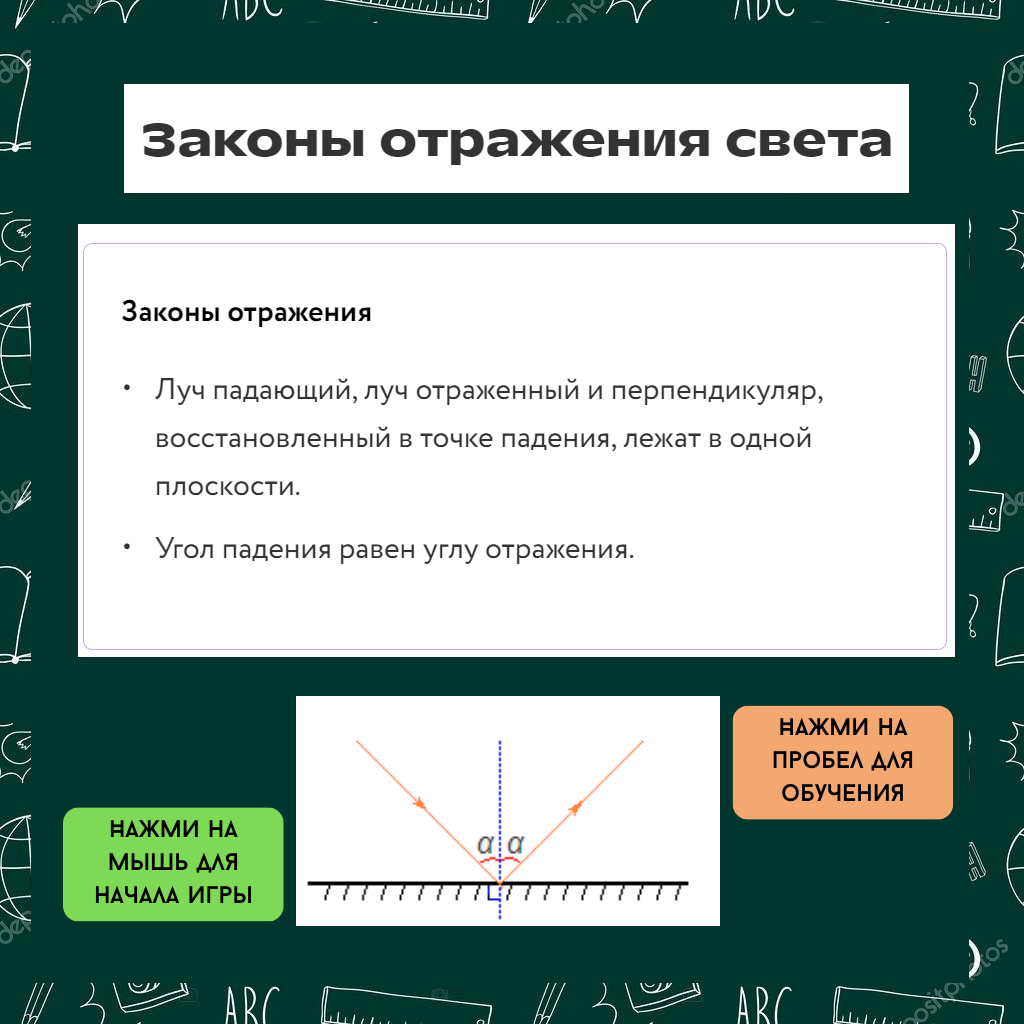
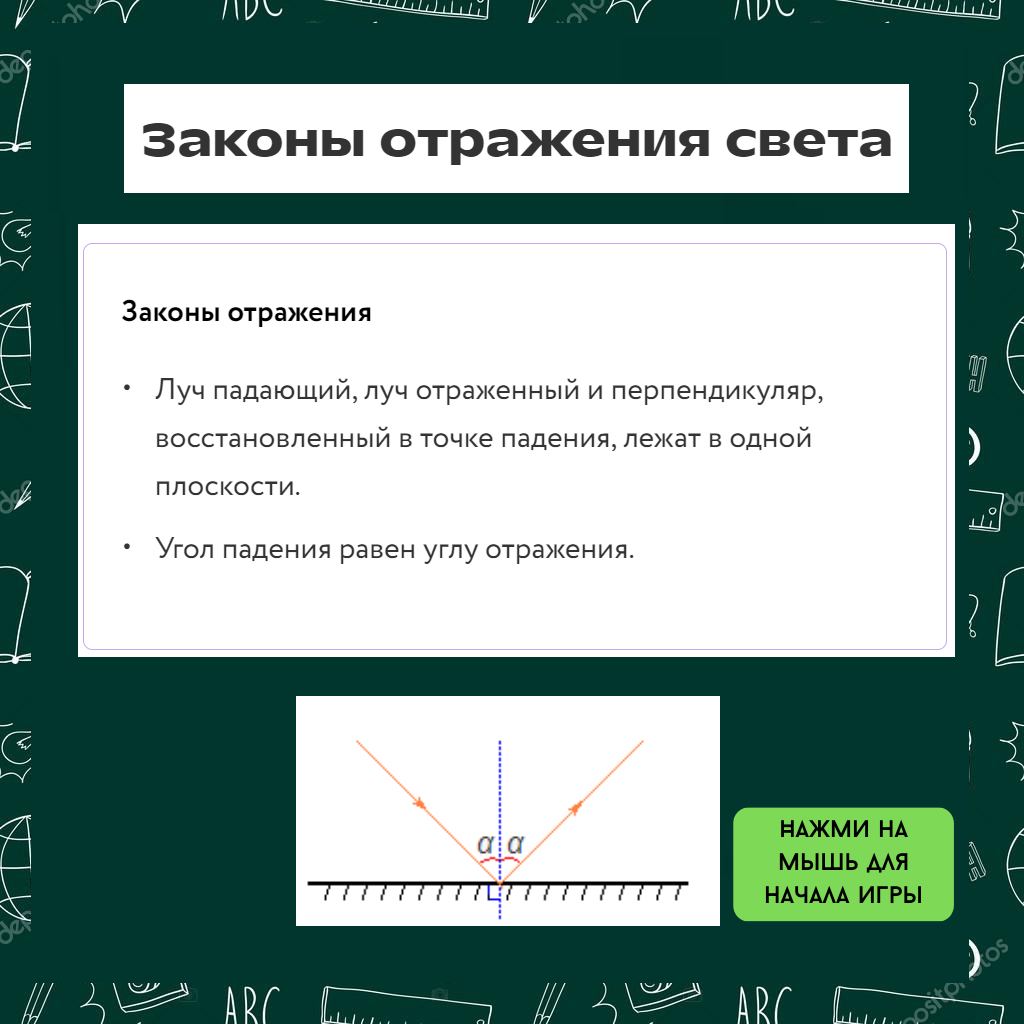
result pictures

Changed region(s): [[0.6875, 0.6875, 0.9375, 0.9062], [0.0625, 0.7812, 0.2812, 0.9062]]

diff --git a/game_3.py b/game_3.py
@@ -16,7 +16,7 @@ screen = pygame.display.set_mode((SCREEN_WIDTH, SCREEN_HEIGHT))
 clock = pygame.time.Clock()
 
 # === Загрузка ресурсов ===
-background_img = pygame.image.load("assets/bck2.png").convert()
+background_img = pygame.image.load("assets/background.png").convert()
 background_img = pygame.transform.scale(background_img, (SCREEN_WIDTH, SCREEN_HEIGHT))
 
 finish_img = pygame.image.load("assets/finish.png").convert()
@@ -36,8 +36,11 @@ num2_img = pygame.transform.scale(num2_img, (SCREEN_WIDTH, SCREEN_HEIGHT))
 upr_img = pygame.image.load("assets/upr.png").convert()
 upr_img = pygame.transform.scale(upr_img, (SCREEN_WIDTH, SCREEN_HEIGHT))
 
+upr2_img = pygame.image.load("assets/upr_2.png").convert()
+upr2_img = pygame.transform.scale(upr2_img, (SCREEN_WIDTH, SCREEN_HEIGHT))
 
-oneStar = pygame.image.load('assets/111.png').convert()
+
+oneStar = pygame.image.load('assets/zv_1.png').convert()
 oneStar = pygame.transform.scale(oneStar, (SCREEN_WIDTH, SCREEN_HEIGHT))
 
 twoStar = pygame.image.load('assets/zv_2.png').convert()
@@ -126,18 +129,18 @@ def result(res, next_slide):
         mouse_pos = pygame.mouse.get_pos()
 
         # --- Кнопка рестарт ---
-        button1_rect = button_img.get_rect(center=(SCREEN_WIDTH // 2, 250))
+        button1_rect = button_img.get_rect(center=(SCREEN_WIDTH // 2, 350))
         hovered1 = button1_rect.collidepoint(mouse_pos)
         y_offset1 = 3 if clicked_button == 'level1' else 0
         screen.blit(button_img, button1_rect.move(0, y_offset1))
-        draw_text(" Заново", font, RED if hovered1 else WHITE, screen, SCREEN_WIDTH // 2, 250 + y_offset1)
+        draw_text(" Заново", font, RED if hovered1 else WHITE, screen, SCREEN_WIDTH // 2, 350 + y_offset1)
 
         # --- Кнопка дальше ---
-        button2_rect = button_img.get_rect(center=(SCREEN_WIDTH // 2, 350))
+        button2_rect = button_img.get_rect(center=(SCREEN_WIDTH // 2, 450))
         hovered2 = button2_rect.collidepoint(mouse_pos)
         y_offset2 = 3 if clicked_button == 'level2' else 0
         screen.blit(button_img, button2_rect.move(0, y_offset2))
-        draw_text(" Дальше", font, RED if hovered2 else WHITE, screen, SCREEN_WIDTH // 2, 350 + y_offset2)
+        draw_text(" Дальше", font, RED if hovered2 else WHITE, screen, SCREEN_WIDTH // 2, 450 + y_offset2)
 
 
         for event in pygame.event.get():
@@ -170,20 +173,25 @@ def result(res, next_slide):
 # === Пример функции запуска 1 уровня ===
 def start_level_one(screen):
     next_slide = 2 #след уровень 2й
-    screen.blit(num1_img, (0, 0))
-    pygame.display.update()
+    cnt = 0
     while True:
         for event in pygame.event.get():   
             if event.type == pygame.QUIT:
                 exit()
 
-            if event.type == pygame.KEYDOWN:
+            if event.type == pygame.MOUSEBUTTONDOWN and cnt == 0:
                 screen.blit(upr_img, (0, 0))
                 pygame.display.update()
+                cnt += 1
+            
+            elif event.type == pygame.MOUSEBUTTONDOWN and cnt == 1:
+                screen.blit(num1_img, (0, 0))
+                pygame.display.update()
+                cnt += 1
 
-            if event.type == pygame.MOUSEBUTTONDOWN:
+            elif event.type == pygame.MOUSEBUTTONDOWN and cnt == 2:
                 import level1
-                rez = 1#level1.start(screen)
+                rez = level1.start(screen)
                 result(rez, next_slide)
         
     
@@ -191,22 +199,30 @@ def start_level_one(screen):
                 
 
 
-# === Заглушка для 2 уровня ===
+# === 2 уровень ===
 def start_level_two(screen):
-    screen.blit(num2_img, (0, 0))
     next_slide = 3 #след уровень 3й
-  
-    pygame.display.update()
+    cnt = 0
+    
     while True:
-
-        for event in pygame.event.get():
+        for event in pygame.event.get():   
             if event.type == pygame.QUIT:
                 exit()
 
-            if event.type == pygame.MOUSEBUTTONDOWN or event.type == pygame.KEYDOWN:
+            if event.type == pygame.MOUSEBUTTONDOWN and cnt == 0:
+                screen.blit(upr2_img, (0, 0))
+                pygame.display.update()
+                cnt += 1
+            
+            elif event.type == pygame.MOUSEBUTTONDOWN and cnt == 1:
+                screen.blit(num2_img, (0, 0))
+                pygame.display.update()
+                cnt += 1
+
+            elif event.type == pygame.MOUSEBUTTONDOWN and cnt == 2:
                 import level2
-                res = level2.start(screen)
-                result(res, next_slide)
+                rez = level2.start(screen)
+                result(rez, next_slide)
 
     
 

diff --git a/level2.py b/level2.py
@@ -83,6 +83,7 @@ def start(screen, pol=[]):
         gameControler.calculate()
         if gameControler.win:
             I, _ = ray.intensiv_and_angle[-1]
+            print(I)
             if I == 0.5:
                 return 2
             elif 0.16 - 0.06 <= I <= 0.16 + 0.06:
